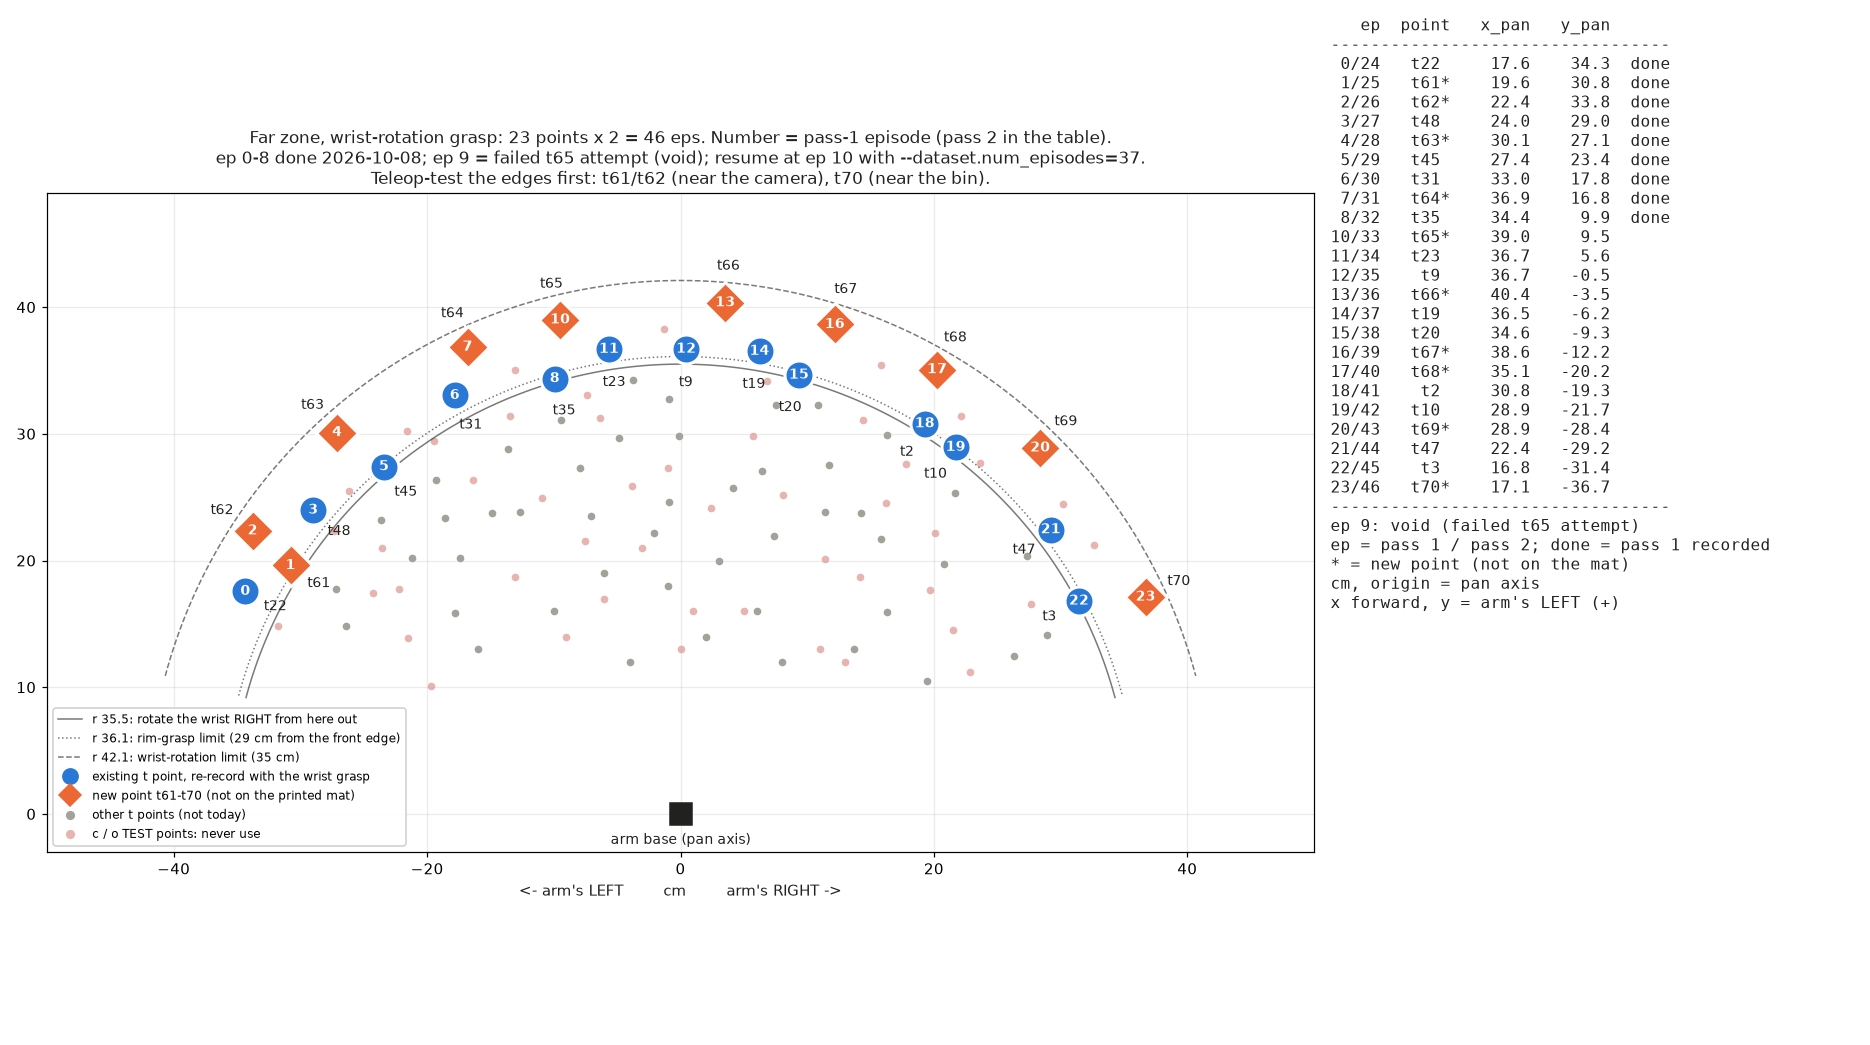
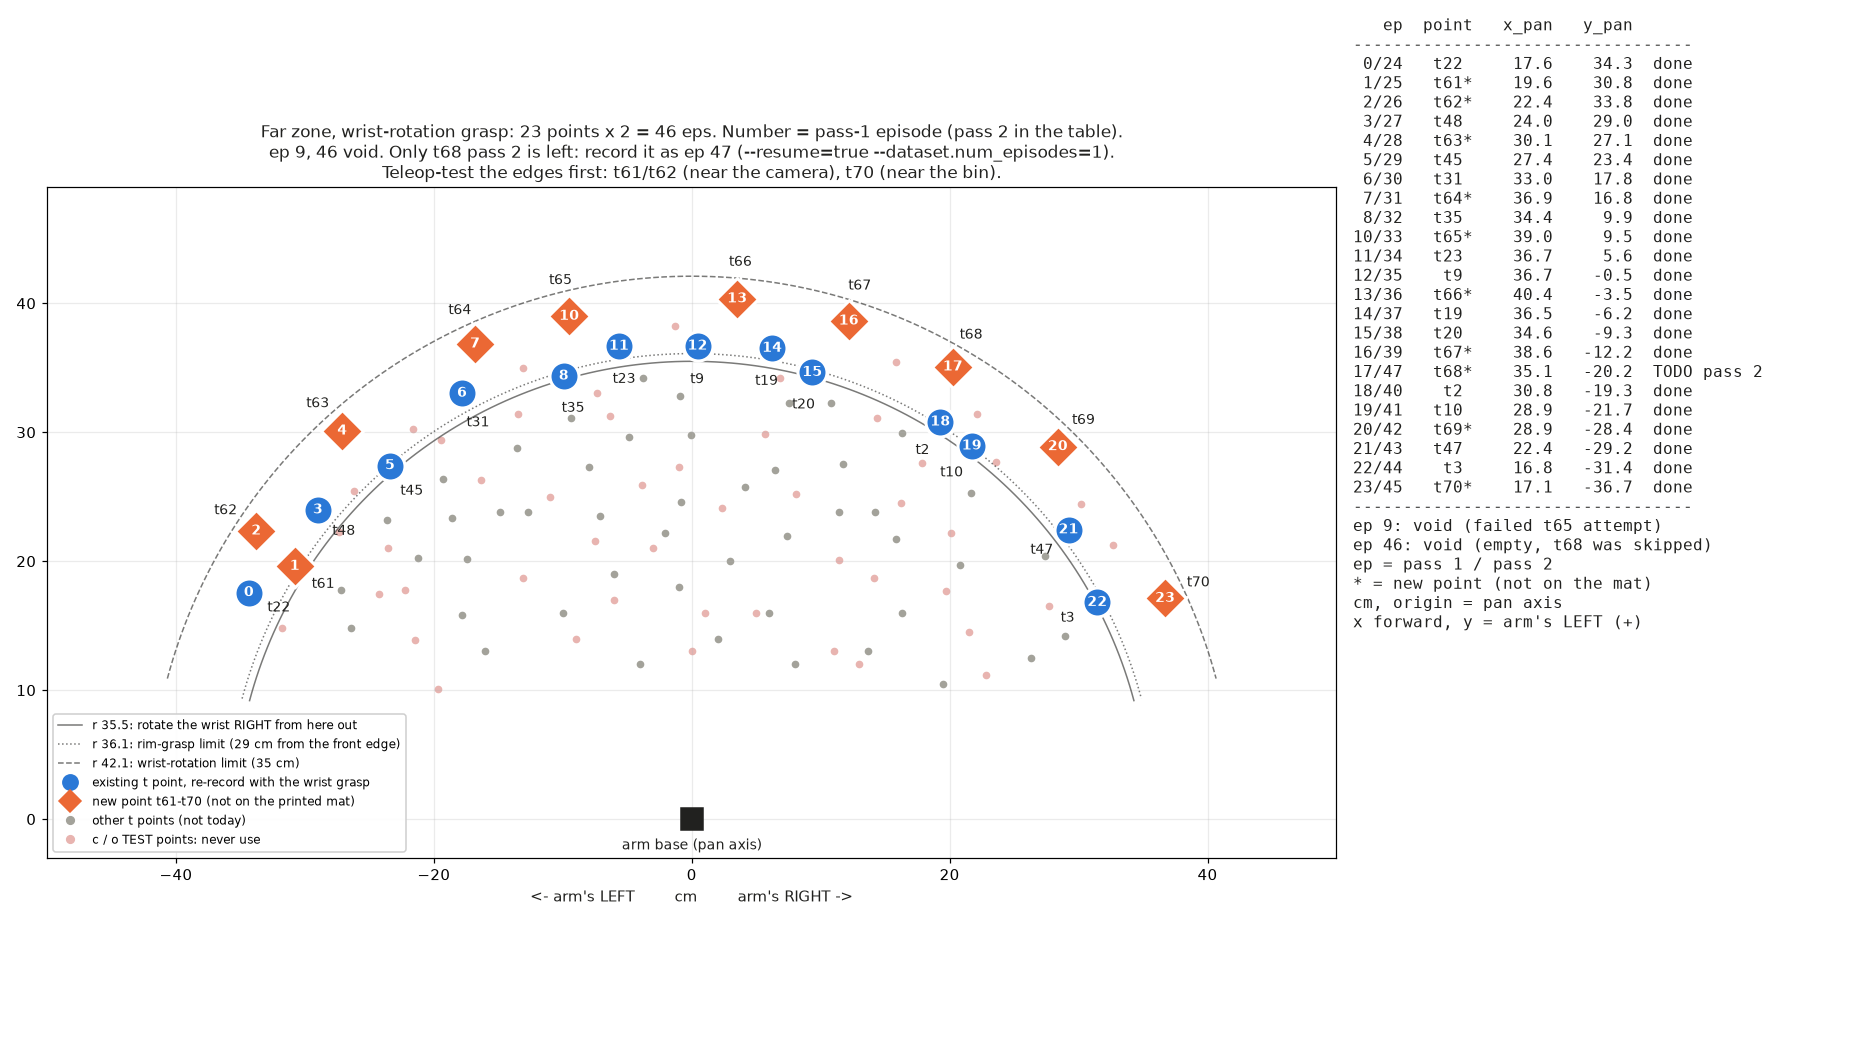
data(meta): far-wrist A1 recording done - 48 eps, ep 9 and 46 void, t68 pass 2 made up as ep 47
Pass 2 skipped t68: frame-0 cup positions match ep 40-45 to t2 t10 t69 t47 t3 t70,
ep 46 is empty (only a hand in view). Config mapping, sheet and 10-08 note updated;
episode_meta CSV prefilled with the actual placement_id and the two void episodes
(outcome / valid / operator of the 46 demos still to be filled). Dataset uploaded to
ericc430/omx_pick_place_pilot_paper_cup_far_wrist_A1 (private, tag v3.0).

diff --git a/scripts/make_recording_sheet_far_A1.py b/scripts/make_recording_sheet_far_A1.py
@@ -33,7 +33,10 @@ n = len(far)
 # saved by the stop) -> valid=0. Everything from t65 on shifts by one; pass 2 starts at ep n + 1.
 DONE, VOID = 9, 9
 pass1 = {k: (i if i < DONE else i + 1) for i, k in enumerate(far)}
-pass2 = {k: n + 1 + i for i, k in enumerate(far)}
+# 2026-10-09: pass 2 skipped t68 -> ep 40-45 shifted one point, ep 46 empty (void); t68 made up as ep 47.
+SKIPPED, VOID2, MAKEUP = "t68", 46, 47
+_p2 = [k for k in far if k != SKIPPED]
+pass2 = {k: n + 1 + i for i, k in enumerate(_p2)} | {SKIPPED: MAKEUP}
 
 fig, (ax, tab) = plt.subplots(1, 2, figsize=(17, 9.5), gridspec_kw={"width_ratios": [3.1, 1]})
 for k, (x, y) in xy.items():
@@ -63,7 +66,7 @@ ax.plot([], [], "o", ms=5, color=TEST, label="c / o TEST points: never use")
 ax.plot(0, 0, "s", ms=14, color=INK)
 ax.text(0, -1.5, "arm base (pan axis)", ha="center", va="top", fontsize=9, color=INK)
 ax.set_title(f"Far zone, wrist-rotation grasp: {n} points x 2 = {2 * n} eps. Number = pass-1 episode (pass 2 in the table).\n"
-             f"ep 0-{DONE - 1} done 2026-10-08; ep {VOID} = failed t65 attempt (void); resume at ep {DONE + 1} with --dataset.num_episodes={2 * n - DONE}.\n"
+             f"ep {VOID}, {VOID2} void. Only {SKIPPED} pass 2 is left: record it as ep {MAKEUP} (--resume=true --dataset.num_episodes=1).\n"
              "Teleop-test the edges first: t61/t62 (near the camera), t70 (near the bin).",
              fontsize=11, color=INK)
 ax.set_xlabel("<- arm's LEFT        cm        arm's RIGHT ->", color=INK)
@@ -78,9 +81,9 @@ tab.axis("off")
 lines = [f"{'ep':>5} {'point':>6} {'x_pan':>7} {'y_pan':>7}", "-" * 34]
 for k in far:
     mark = "*" if int(k[1:]) >= 61 else " "
-    done = "done" if pass1[k] < DONE else ""
+    done = "TODO pass 2" if k == SKIPPED else "done"
     lines.append(f"{pass1[k]:>2}/{pass2[k]:<2} {k:>5}{mark} {float(pts[k]['x_pan_cm']):7.1f} {float(pts[k]['y_pan_cm']):7.1f}  {done}")
-lines += ["-" * 34, f"ep {VOID}: void (failed t65 attempt)", "ep = pass 1 / pass 2; done = pass 1 recorded", "* = new point (not on the mat)", "cm, origin = pan axis",
+lines += ["-" * 34, f"ep {VOID}: void (failed t65 attempt)", f"ep {VOID2}: void (empty, t68 was skipped)", "ep = pass 1 / pass 2", "* = new point (not on the mat)", "cm, origin = pan axis",
           "x forward, y = arm's LEFT (+)"]
 tab.text(0, 1, "\n".join(lines), family="monospace", fontsize=10.5, va="top", color=INK, transform=tab.transAxes)
 fig.tight_layout()

diff --git a/docs/meeting/2026-10-08.md b/docs/meeting/2026-10-08.md
@@ -172,3 +172,7 @@
 - **ep 9 是在 t65 原位置的失敗嘗試**：269 幀，夾爪一次都沒閉合，停止時被存了下來 → `valid=0`，訓練時排除。不刪除，以免後面的編號移位。
 - t65 原位置太遠 → 現場改到 **(39.0, 9.5)**（r 40.14）。清單、label map、meta（`moved`）都已更新；離最近的點 t23 4.5 cm。
 - 從 ep 10 起順延一號。對照表在 config 註解和位置圖右邊的表。
+- **第 2 輪漏了 t68** `[產出物]`：比對第 0 幀杯子在畫面上的位置（以 ep 1 當背景、只看右半邊桌面），ep 40 ↔ t2、ep 41 ↔ t10、ep 42 ↔ t69、ep 43 ↔ t47 都跟第 1 輪同一點相差 ≤18 px；ep 44、45 用目視比對對上 t3、t70。ep 39 的抓取角度 −15.6°，對上 t67（第 1 輪 t67 是 −20.2°，t68 是 −32.9°）。
+  → ep 40–45 = t2 t10 t69 t47 t3 t70；**ep 46 是空的**（畫面裡只有手，夾爪沒閉合，675 幀）→ `valid=0`。
+  只用角度擬合的話，「漏 t68」和「漏 t10」分不出來（rms 3.1° 對 2.8°），是杯子位置決定的。
+- t68 的第 2 輪補錄在 ep 47。實際的對照表在 config 註解裡。
